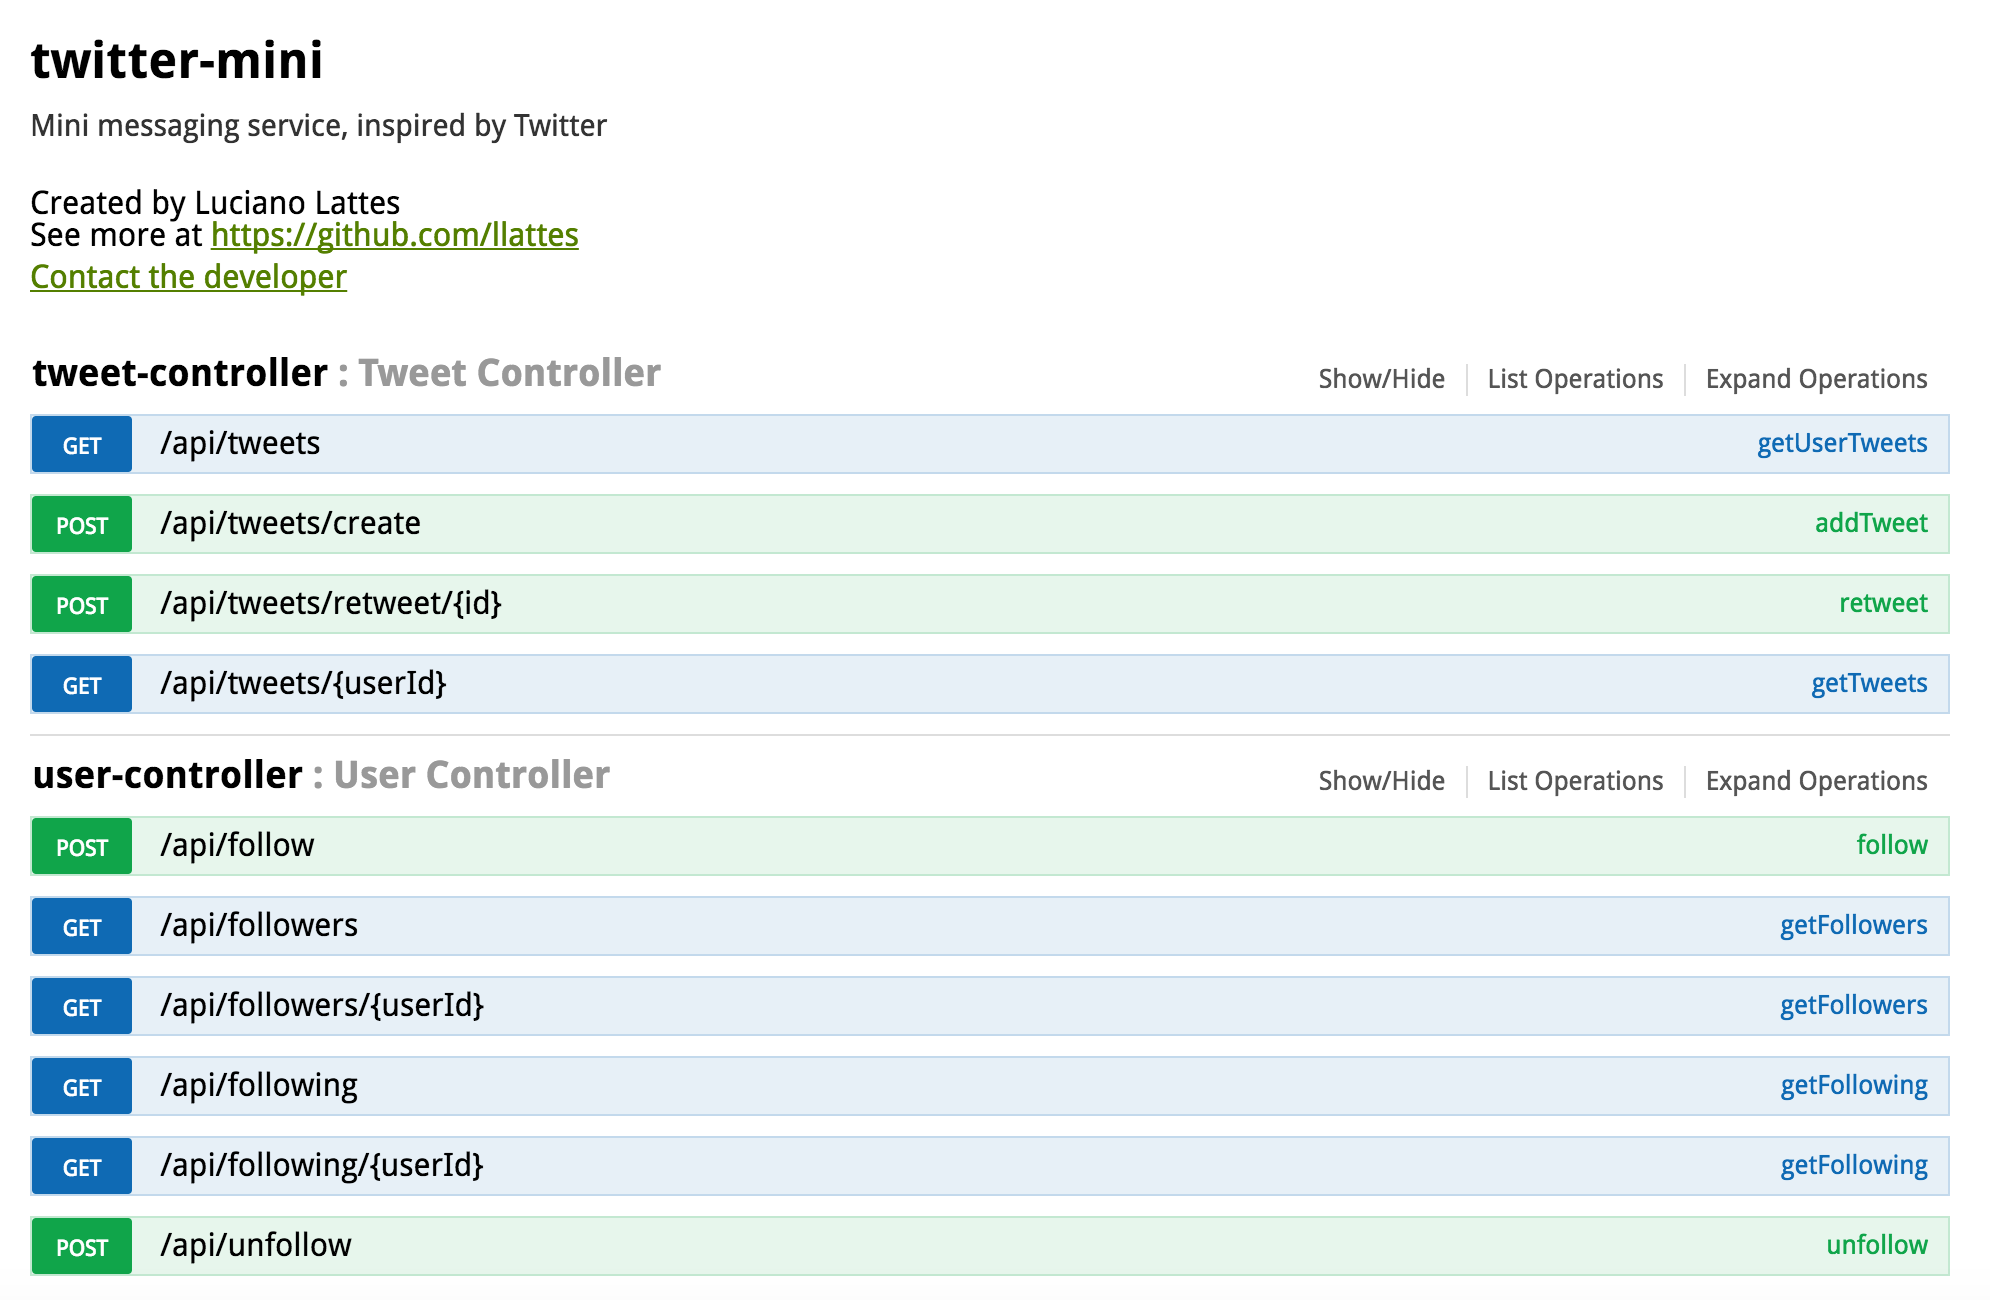
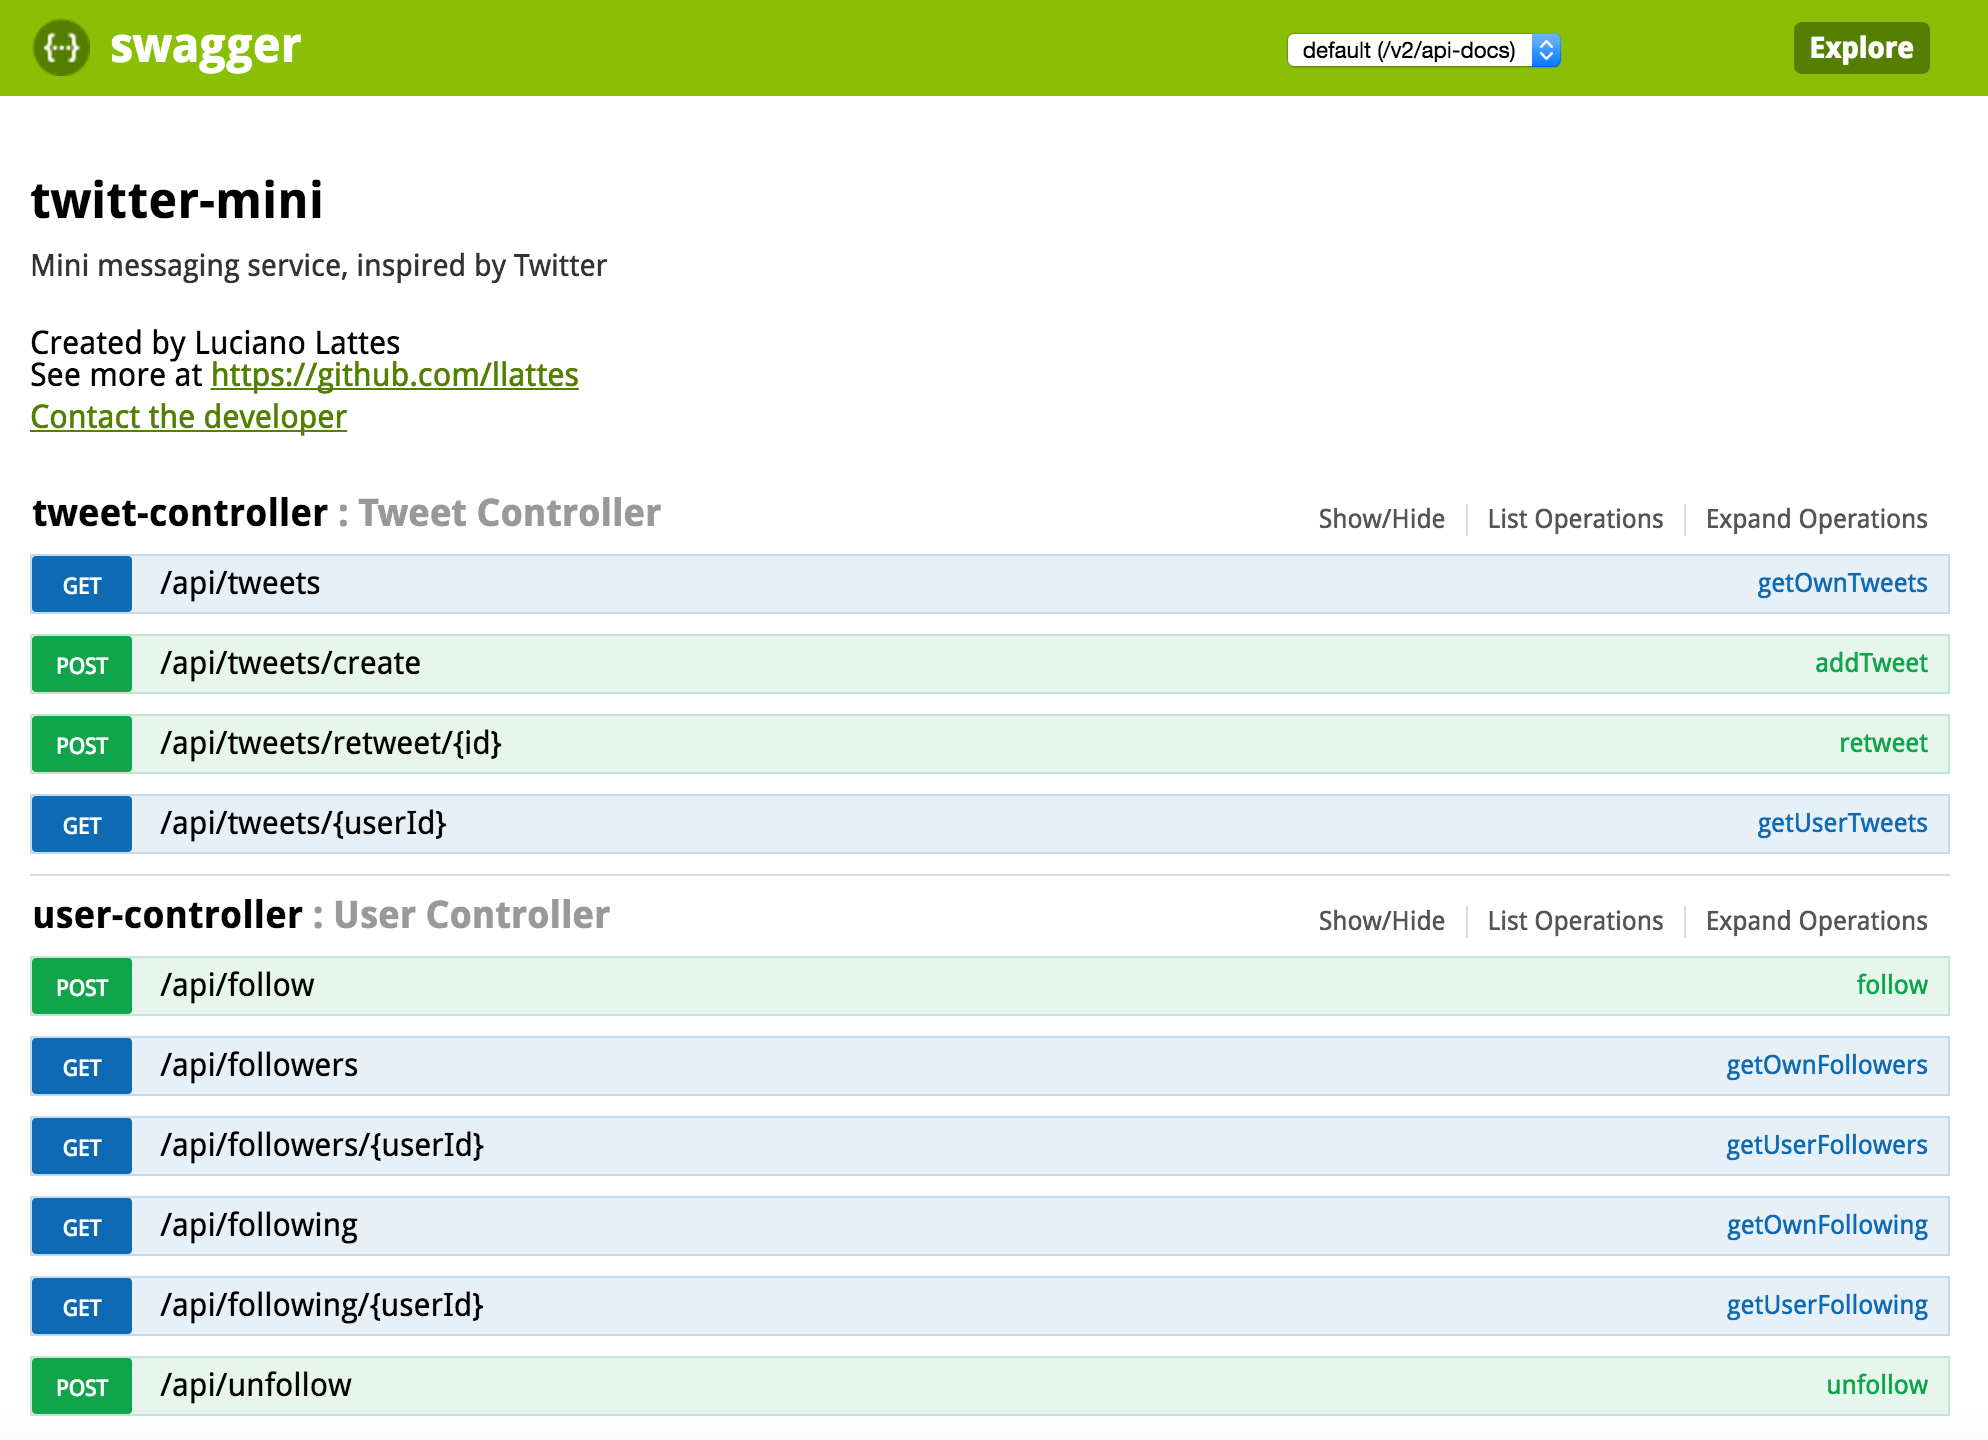
Rename controller methods and update images

Changed region(s): [[0.0, 0.0, 1.0, 0.9846], [0.6549, 0.2769, 0.7173, 0.3077]]

diff --git a/src/main/java/net/lucianolattes/controller/UserController.java b/src/main/java/net/lucianolattes/controller/UserController.java
@@ -41,7 +41,7 @@ public class UserController {
   @ApiOperation(value = "", notes = "Returns a collection of users following the authenticated user")
   @RequestMapping(value = "/followers", produces = { "application/xml",
       "application/json" }, method = RequestMethod.GET)
-  public ResponseEntity<List<UserProfile>> getFollowers(Authentication authentication) {
+  public ResponseEntity<List<UserProfile>> getOwnFollowers(Authentication authentication) {
     User authenticatedUser = (User) authentication.getPrincipal();
 
     if (authenticatedUser == null) {
@@ -55,7 +55,7 @@ public class UserController {
   @ApiOperation(value = "", notes = "Returns a collection of users following the user whose ID is specified as path variable")
   @RequestMapping(value = "/followers/{userId}", produces = { "application/xml",
       "application/json" }, method = RequestMethod.GET)
-  public ResponseEntity<Object> getFollowers(@PathVariable String userId, Authentication authentication)
+  public ResponseEntity<Object> getUserFollowers(@PathVariable String userId, Authentication authentication)
       throws UserNotFoundException {
     User authenticatedUser = (User) authentication.getPrincipal();
 
@@ -71,7 +71,7 @@ public class UserController {
   @ApiOperation(value = "", notes = "Returns a collection of users followed by the authenticated user")
   @RequestMapping(value = "/following", produces = { "application/xml",
       "application/json" }, method = RequestMethod.GET)
-  public ResponseEntity<List<UserProfile>> getFollowing(Authentication authentication) {
+  public ResponseEntity<List<UserProfile>> getOwnFollowing(Authentication authentication) {
     User authenticatedUser = (User) authentication.getPrincipal();
 
     if (authenticatedUser == null) {
@@ -85,7 +85,7 @@ public class UserController {
   @ApiOperation(value = "", notes = "Returns a collection of users followed by the user whose ID is specified as path variable")
   @RequestMapping(value = "/following/{userId}", produces = { "application/xml",
       "application/json" }, method = RequestMethod.GET)
-  public ResponseEntity<Object> getFollowing(@PathVariable String userId, Authentication authentication)
+  public ResponseEntity<Object> getUserFollowing(@PathVariable String userId, Authentication authentication)
       throws UserNotFoundException {
     User authenticatedUser = (User) authentication.getPrincipal();
 

diff --git a/src/main/java/net/lucianolattes/controller/TweetController.java b/src/main/java/net/lucianolattes/controller/TweetController.java
@@ -39,7 +39,7 @@ public class TweetController {
 
   @ApiOperation(value = "", notes = "Get tweets for the authenticated user")
   @RequestMapping(value = "/tweets", produces = { "application/xml", "application/json" }, method = RequestMethod.GET)
-  public ResponseEntity<List<Tweet>> getUserTweets(@RequestParam(value = "search", required = false) String search,
+  public ResponseEntity<List<Tweet>> getOwnTweets(@RequestParam(value = "search", required = false) String search,
       Authentication authentication) {
     User authenticatedUser = (User) authentication.getPrincipal();
 
@@ -51,7 +51,7 @@ public class TweetController {
     return ResponseEntity.ok(tweetService.getTweets(authenticatedUser.getUsername(), search));
   }
 
-  @ApiOperation(value = "", notes = "Publish new tweet")
+  @ApiOperation(value = "", notes = "Publish / create new tweet")
   @RequestMapping(value = "/tweets/create", produces = { "application/xml",
       "application/json" }, method = RequestMethod.POST)
   public ResponseEntity<Tweet> addTweet(@RequestBody Tweet tweet, Authentication authentication)
@@ -75,7 +75,7 @@ public class TweetController {
         .body(tweetService.insertTweet(authenticatedUser.getUsername(), tweet));
   }
 
-  @ApiOperation(value = "", notes = "Retweets a tweet and returns the original tweet")
+  @ApiOperation(value = "", notes = "Retweet an existing tweet")
   @RequestMapping(value = "/tweets/retweet/{id}", produces = { "application/xml",
       "application/json" }, method = RequestMethod.POST)
   public ResponseEntity<Tweet> retweet(@PathVariable Long id, Authentication authentication)
@@ -94,7 +94,7 @@ public class TweetController {
   @ApiOperation(value = "", notes = "Get tweets for the user whose ID is specified as path variable")
   @RequestMapping(value = "/tweets/{userId}", produces = { "application/xml",
       "application/json" }, method = RequestMethod.GET)
-  public ResponseEntity<Object> getTweets(@PathVariable String userId,
+  public ResponseEntity<Object> getUserTweets(@PathVariable String userId,
       @RequestParam(value = "search", required = false) String search, Authentication authentication)
       throws UserNotFoundException {
     User authenticatedUser = (User) authentication.getPrincipal();

diff --git a/README.md b/README.md
@@ -24,6 +24,8 @@ After validating the prerequisites, perform the following steps to run the appli
 6. Run `mvn jetty:run-war` or `mvn jetty:run` to start the application. Once you see the following two lines, you should be able to start using the application: `[INFO] Started @5575ms - [INFO] Started Jetty Server`
 7. Hit `http://localhost:8080/` to see the list of endpoints of the **twitter-mini** RESTful API and a brief description of how those endpoints work.
 
+
+
 ## Using the API
 
 Every time the application starts, the database is conveniently seeded with some dummy data.
@@ -40,3 +42,4 @@ twitter      | twitter
 johndoe      | johndoe
 iamdevloper  | iamdevloper
 
+The following is a s
